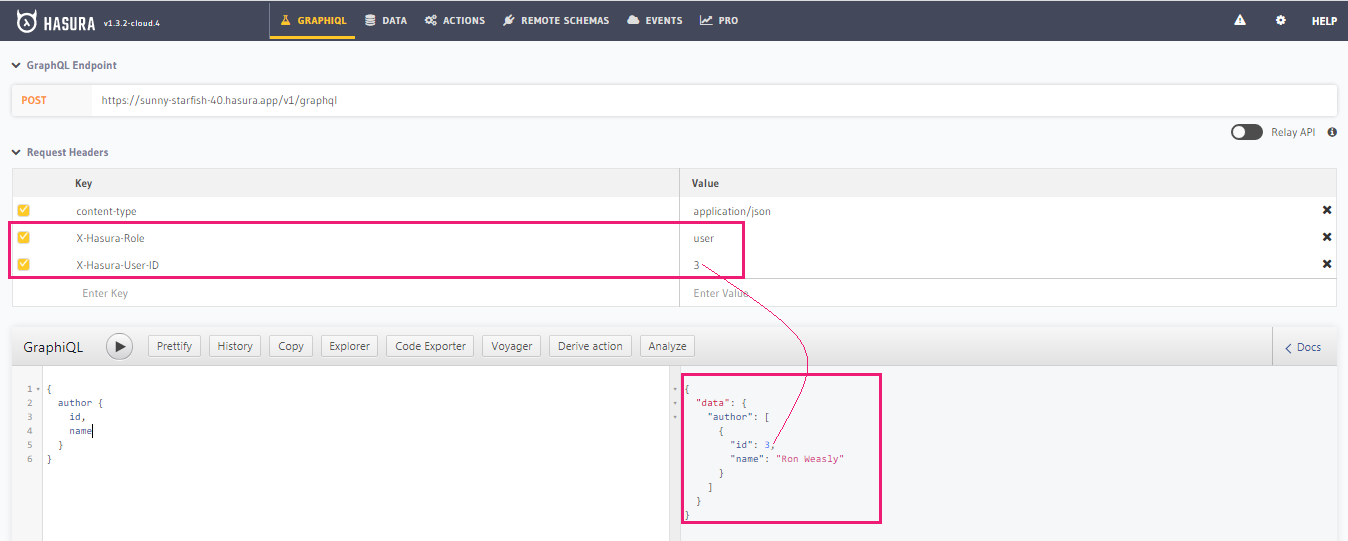
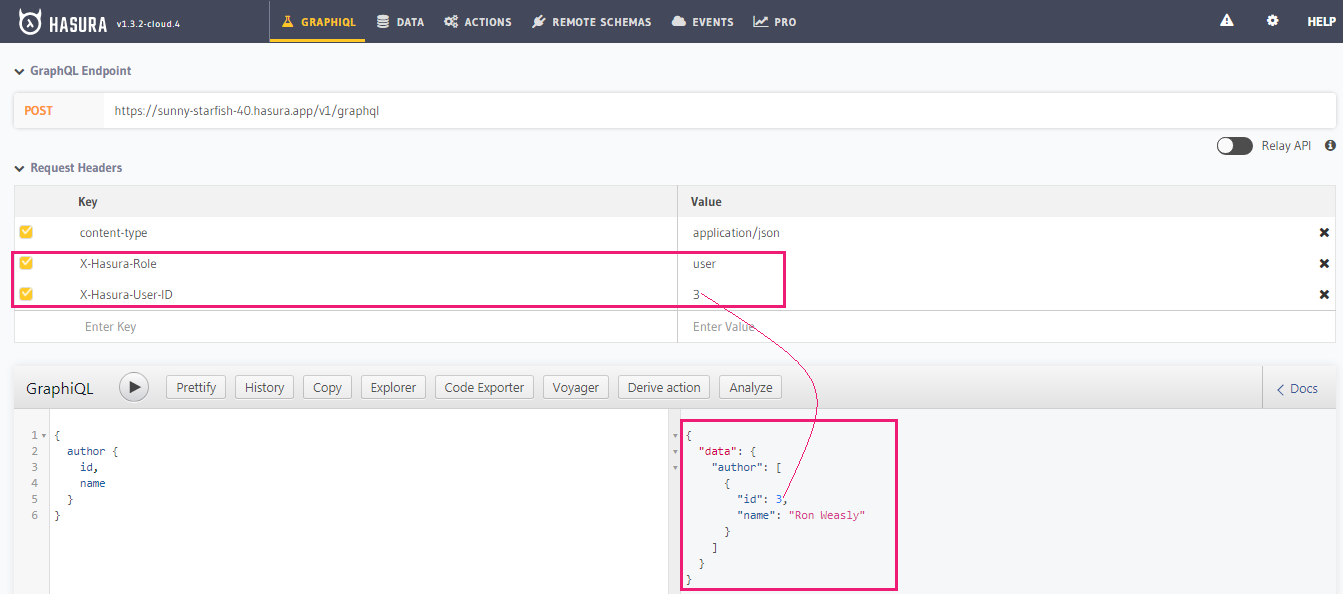
fix blurry images

diff --git a/docs/graphql/core/getting-started/first-graphql-query.rst b/docs/graphql/core/getting-started/first-graphql-query.rst
@@ -32,6 +32,7 @@ the following columns:
 
 .. thumbnail:: /img/graphql/core/getting-started/create-profile-table.png
    :alt: Create a table 
+   :width: 700px
 
 Now, insert some sample data into the table using the ``Insert Row`` tab of the ``profile`` table.
 

diff --git a/docs/graphql/core/getting-started/first-event-trigger.rst b/docs/graphql/core/getting-started/first-event-trigger.rst
@@ -34,6 +34,7 @@ the following columns:
 
 .. thumbnail:: /img/graphql/core/getting-started/create-profile-table.png
    :alt: Create a table
+   :width: 700px
 
 Setup an event trigger
 ----------------------
